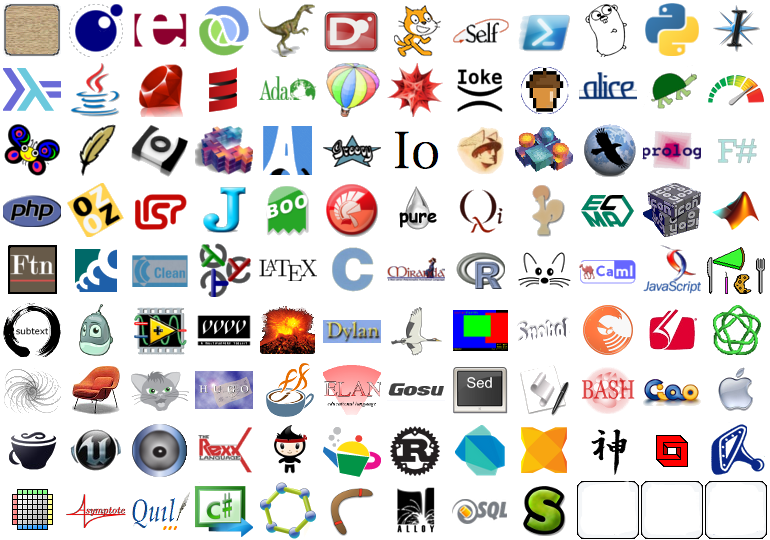
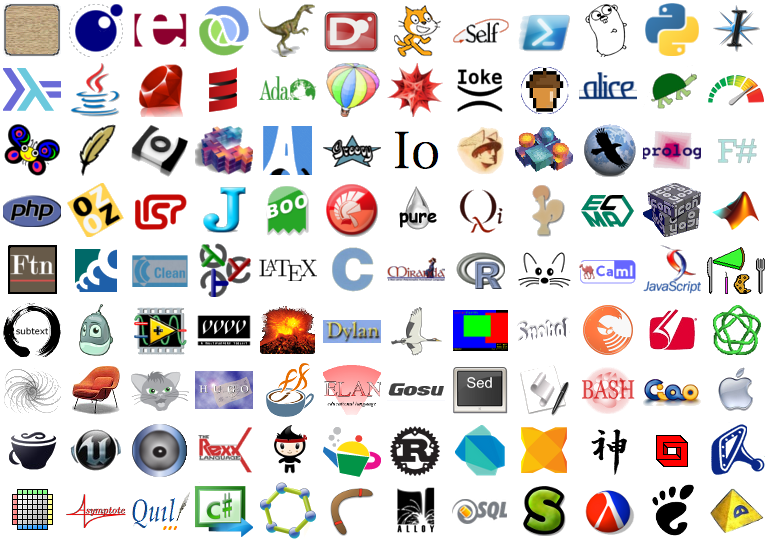
- more languages

Changed region(s): [[0.7481, 0.8889, 0.9974, 1.0]]

diff --git a/mahjong.xaml b/mahjong.xaml
@@ -42,7 +42,12 @@
         <MenuItem Name="MenuAbout" Header="About" />
       </MenuItem>
     </Menu>
-    <Canvas  Grid.Row="1" Name="BoardCanvas" Margin="35,60,30,50"/>
+    <Grid HorizontalAlignment="Center"
+          VerticalAlignment="Center">
+      <Canvas  Grid.Row="1"
+               Name="BoardCanvas"
+               Margin="35,60,30,50" />
+    </Grid>
     <StatusBar Grid.Row="2">
       <StatusBarItem>
         <StackPanel Orientation="Horizontal">
